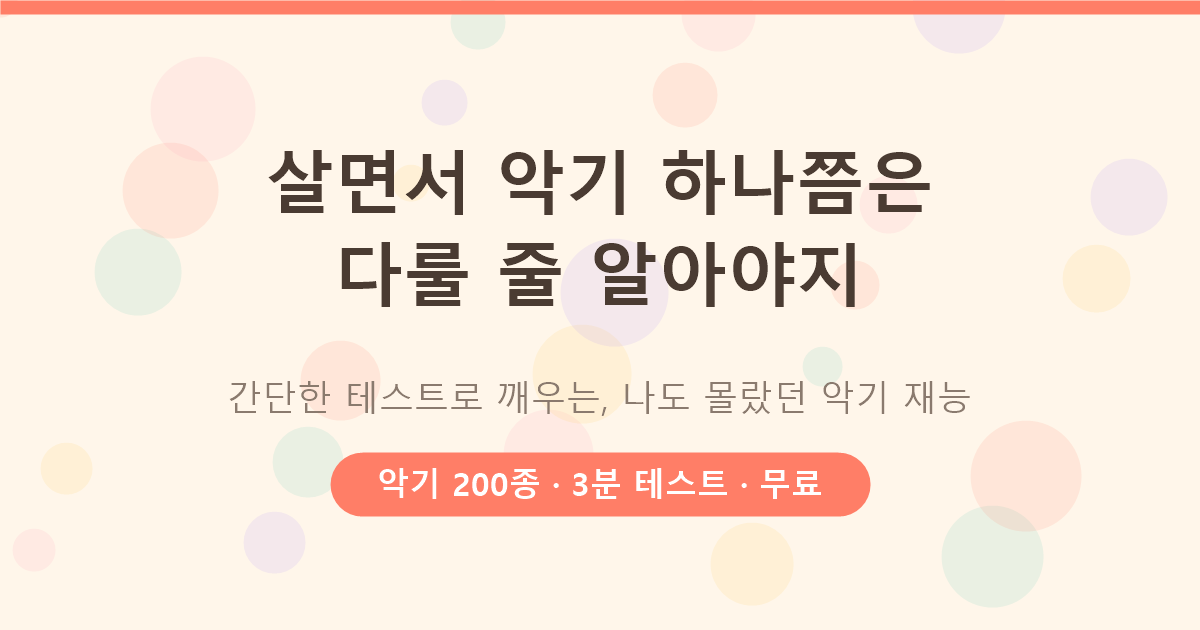
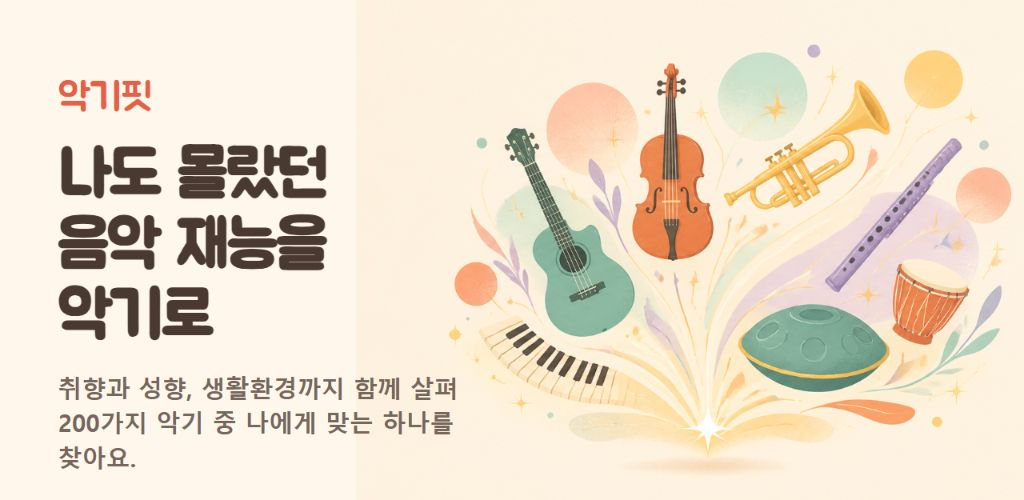
Improve app store and web discoverability

diff --git a/public/index.html b/public/index.html
@@ -3,20 +3,54 @@
 <head>
 <meta charset="utf-8">
 <meta name="viewport" content="width=device-width, initial-scale=1, viewport-fit=cover">
-<title>살면서 악기 하나쯤은 다룰 줄 알아야지</title>
-<meta name="description" content="간단한 테스트로 깨우는, 나도 몰랐던 악기 재능. 200종의 악기가 기다리고 있습니다.">
+<title>악기핏: 나에게 맞는 악기 찾기 | 악기 추천 테스트</title>
+<meta name="description" content="취향·성향·생활환경과 청음·리듬 감각을 함께 살펴 200가지 악기 중 나에게 맞는 악기를 추천합니다. 회원가입 없이 약 5분.">
 <meta name="theme-color" content="#FFF6EA">
+<meta name="robots" content="index,follow,max-image-preview:large">
+<meta name="application-name" content="악기핏">
 <meta name="naver-site-verification" content="458f86eeed3be6cb0b07b1d89e2c0a75818d3ec9">
 <link rel="canonical" href="https://instrumentquiz.org/">
-<meta property="og:title" content="살면서 악기 하나쯤은 다룰 줄 알아야지">
-<meta property="og:description" content="간단한 테스트로 깨우는 나도 몰랐던 악기 재능 (악기 200종)">
+<link rel="icon" type="image/png" sizes="512x512" href="/icon-512.png">
+<link rel="apple-touch-icon" href="/icon-512.png">
+<link rel="manifest" href="/site.webmanifest">
+<meta property="og:site_name" content="악기핏">
+<meta property="og:title" content="악기핏: 나에게 맞는 악기 찾기">
+<meta property="og:description" content="취향과 성향, 생활환경, 청음·리듬 감각을 함께 살펴 200가지 악기 중 나에게 맞는 하나를 추천해요.">
 <meta property="og:type" content="website">
 <meta property="og:url" content="https://instrumentquiz.org/">
 <meta property="og:image" content="https://instrumentquiz.org/og.png">
-<meta property="og:image:width" content="1200">
-<meta property="og:image:height" content="630">
+<meta property="og:image:width" content="1024">
+<meta property="og:image:height" content="500">
 <meta name="twitter:card" content="summary_large_image">
+<meta name="twitter:title" content="악기핏: 나에게 맞는 악기 찾기">
+<meta name="twitter:description" content="취향과 성향, 생활환경, 청음·리듬 감각을 함께 살펴 200가지 악기 중 나에게 맞는 하나를 추천해요.">
 <meta name="twitter:image" content="https://instrumentquiz.org/og.png">
+<script type="application/ld+json">
+{
+  "@context": "https://schema.org",
+  "@type": ["SoftwareApplication", "WebApplication"],
+  "name": "악기핏: 나에게 맞는 악기 찾기",
+  "alternateName": ["Instrument Fit", "Instrument Quiz", "乐器Fit"],
+  "url": "https://instrumentquiz.org/",
+  "description": "취향·성향·생활환경과 청음·리듬 감각을 함께 살펴 200가지 악기 중 나에게 맞는 악기를 추천하는 무료 테스트",
+  "applicationCategory": "MultimediaApplication",
+  "operatingSystem": "Web browser",
+  "isAccessibleForFree": true,
+  "inLanguage": ["ko", "en", "zh-CN"],
+  "image": "https://instrumentquiz.org/og.png",
+  "offers": {
+    "@type": "Offer",
+    "price": "0",
+    "priceCurrency": "KRW"
+  },
+  "featureList": [
+    "200가지 악기 추천",
+    "청음과 리듬 감각 테스트",
+    "생활환경과 예산 조건 반영",
+    "악기별 입문 가이드"
+  ]
+}
+</script>
 <style>
 @font-face{font-family:'Jua';font-display:swap;src:url('/fonts/Jua-Regular.ttf') format('truetype')}
 :root{
@@ -178,9 +212,9 @@ footer nav{display:flex;justify-content:center;gap:10px;flex-wrap:wrap}
 
   <!-- 검색엔진용 소개 (앱 하단 상시 노출 · JS 없이도 읽히는 본문) -->
   <section id="about" style="margin-top:56px; padding-top:28px; border-top:1px solid rgba(125,125,125,.18); color:var(--sub); font-size:.86rem; line-height:1.85">
-    <h2 style="font-size:1rem; margin:0 0 10px">「살면서 악기 하나쯤은 다룰 줄 알아야지」는 어떤 테스트인가요?</h2>
+    <h2 style="font-size:1rem; margin:0 0 10px">악기핏은 어떤 악기 추천 테스트인가요?</h2>
     <p style="margin:0 0 12px">
-      나에게 맞는 악기를 찾아 주는 무료 악기 추천 테스트입니다. 침이 고이는 관악기가 부담스러운지,
+      <strong>악기핏</strong>은 나에게 맞는 악기를 찾아 주는 무료 악기 추천 테스트입니다. 침이 고이는 관악기가 부담스러운지,
       손끝 굳은살을 견딜 수 있는지, 아파트에서 연습해도 되는 소리 크기인지 — 현실 조건부터,
       좋아하는 음악 장르와 성향까지 30개 남짓한 질문으로 확인합니다.
     </p>
@@ -774,11 +808,11 @@ function setAbout(){
 }
 function setStaticTexts(){
   document.documentElement.lang = isEN() ? "en" : (isZH() ? "zh-CN" : "ko");
-  document.title = L("살면서 악기 하나쯤은 다룰 줄 알아야지","Everyone should be able to play one instrument","这辈子总得会一样乐器");
+  document.title = L("악기핏: 나에게 맞는 악기 찾기","Instrument Fit: Find the Right Instrument for You","乐器Fit：找到适合你的乐器");
   const md=document.querySelector('meta[name="description"]');
-  if(md) md.setAttribute("content", L("간단한 테스트로 깨우는, 나도 몰랐던 악기 재능. 200종의 악기가 기다리고 있습니다.",
-    "A short test to uncover the musical talent you never knew you had. 200 instruments are waiting.",
-    "一个简单的测试,唤醒你自己都不知道的乐器天赋。200种乐器等着你。"));
+  if(md) md.setAttribute("content", L("취향·성향·생활환경과 청음·리듬 감각을 함께 살펴 200가지 악기 중 나에게 맞는 악기를 추천합니다. 회원가입 없이 약 5분.",
+    "Match your taste, personality, real-life needs, ear and rhythm against 200 instruments. No sign-up, about five minutes.",
+    "结合喜好、性格、生活条件以及听音和节奏感，从200种乐器中找到适合你的那一种。无需注册，约5分钟。"));
   const ko=document.getElementById("lang-ko"), en=document.getElementById("lang-en"), zh=document.getElementById("lang-zh");
   if(ko) ko.className = "langbtn"+(LANG==="ko"?" on":"");
   if(en) en.className = "langbtn"+(isEN()?" on":"");

diff --git a/src/index.js b/src/index.js
@@ -29,16 +29,16 @@ const OG_LOCALE = { ko: "ko_KR", en: "en_US", zh: "zh_CN" };
 /* 홈 화면 메타 — 앱이 실제로 렌더하는 문구와 맞춰 둔다(선언과 내용이 다르면 색인이 흔들린다) */
 const HOME = {
   ko: {
-    title: "살면서 악기 하나쯤은 다룰 줄 알아야지",
-    desc: "간단한 테스트로 깨우는, 나도 몰랐던 악기 재능. 귀 테스트와 취향 문답으로 악기 200종 중에서 나에게 맞는 악기를 찾아드려요.",
+    title: "악기핏: 나에게 맞는 악기 찾기 | 악기 추천 테스트",
+    desc: "취향·성향·생활환경과 청음·리듬 감각을 함께 살펴 200가지 악기 중 나에게 맞는 악기를 추천합니다. 회원가입 없이 약 5분.",
   },
   en: {
-    title: "Everyone should be able to play one instrument",
-    desc: "A short test to wake up the musical talent you never knew you had. An ear test plus a few questions about you, matched against 200 instruments.",
+    title: "Instrument Fit: Find the Right Instrument for You",
+    desc: "Match your taste, personality, real-life needs, ear and rhythm against 200 instruments. No sign-up, about five minutes.",
   },
   zh: {
-    title: "这辈子总得会一样乐器",
-    desc: "一个简单的测试，唤醒连你自己都不知道的乐器天赋。用听力测试和口味问答，从200种乐器里帮你找出最适合你的那一样。",
+    title: "乐器Fit：找到适合你的乐器",
+    desc: "结合喜好、性格、生活条件以及听音和节奏感，从200种乐器中找到适合你的那一种。无需注册，约5分钟。",
   },
 };
 
@@ -69,6 +69,8 @@ function localize(html, { lang, path, title, desc, image }) {
   set("property", "og:title", title);
   set("property", "og:description", desc);
   set("property", "og:url", canonical);
+  set("name", "twitter:title", title);
+  set("name", "twitter:description", desc);
   if (image) {
     set("property", "og:image", image);
     set("name", "twitter:image", image);
@@ -126,10 +128,10 @@ export default {
           : `나에게 맞는 악기는 ${name}!`;
         const desc =
           rl === "en"
-            ? "Everyone should be able to play one instrument — here's what a 3-minute test picked for me. What would yours be?"
+            ? "Instrument Fit matched me with this instrument after a short test. What would yours be?"
             : rl === "zh"
-            ? "这辈子总得会一样乐器 — 3分钟测试给我的结果。你的会是什么呢?"
-            : "살면서 악기 하나쯤은 다룰 줄 알아야지 — 3분 테스트로 나온 결과예요. 당신의 악기는 뭘까요?";
+            ? "乐器Fit用一个简短测试为我找到了这件乐器。你的会是什么呢？"
+            : "악기핏의 짧은 테스트로 나온 결과예요. 당신에게 맞는 악기는 무엇일까요?";
         html = localize(html, {
           lang: rl,
           path: `/r/${m[1]}`,

diff --git a/public/support.html b/public/support.html
@@ -4,8 +4,8 @@
 <meta charset="utf-8">
 <meta name="viewport" content="width=device-width, initial-scale=1, viewport-fit=cover">
 <meta name="theme-color" content="#FFF6EA">
-<title>지원 · Support · 帮助 | Instrument Quiz</title>
-<meta name="description" content="Instrument Quiz 사용 방법과 지원 문의">
+<title>악기핏 지원 · Support · 帮助</title>
+<meta name="description" content="악기핏 사용 방법, 소리 문제 해결 및 지원 문의">
 <style>
 :root{--bg:#FFF6EA;--card:#fff;--ink:#4A3B32;--sub:#76665B;--accent:#A43828;--line:rgba(74,59,50,.18)}
 *{box-sizing:border-box}
@@ -23,7 +23,7 @@ p,ol,ul{margin:8px 0}ol,ul{padding-left:22px}.meta{color:var(--sub)}a{color:var(
 <div class="wrap">
   <header>
     <h1>지원<br><span lang="en">Support</span><br><span lang="zh-CN">帮助</span></h1>
-    <p class="meta">Instrument Quiz</p>
+    <p class="meta">악기핏 · Instrument Quiz</p>
     <nav class="links" aria-label="페이지 링크">
       <a href="/">앱으로 돌아가기 / Back to the app / 返回应用</a>
       <a href="/privacy.html">개인정보처리방침 / Privacy / 隐私</a>
@@ -34,7 +34,7 @@ p,ol,ul{margin:8px 0}ol,ul{padding-left:22px}.meta{color:var(--sub)}a{color:var(
   <main>
     <section class="card" aria-labelledby="support-ko">
       <h2 id="support-ko">한국어</h2>
-      <p><strong>Instrument Quiz</strong>는 약 30개의 질문과 간단한 귀·리듬 테스트로 200종의 악기 중 나에게 맞는 악기를 찾아 주는 무료 앱입니다. 회원가입이나 계정은 필요하지 않습니다.</p>
+      <p><strong>악기핏</strong>은 약 30개의 질문과 간단한 귀·리듬 테스트로 200종의 악기 중 나에게 맞는 악기를 찾아 주는 무료 앱입니다. 회원가입이나 계정은 필요하지 않습니다.</p>
       <h3>테스트 시작 방법</h3>
       <ol>
         <li>앱 첫 화면에서 <strong>내 악기 찾으러 가기</strong>를 누릅니다.</li>

diff --git a/public/privacy.html b/public/privacy.html
@@ -4,8 +4,8 @@
 <meta charset="utf-8">
 <meta name="viewport" content="width=device-width, initial-scale=1, viewport-fit=cover">
 <meta name="theme-color" content="#FFF6EA">
-<title>개인정보처리방침 · Privacy Policy · 隐私政策 | Instrument Quiz</title>
-<meta name="description" content="Instrument Quiz 개인정보처리방침과 Privacy Policy">
+<title>악기핏 개인정보처리방침 · Privacy Policy · 隐私政策</title>
+<meta name="description" content="악기핏 개인정보처리방침과 Privacy Policy">
 <style>
 :root{--bg:#FFF6EA;--card:#fff;--ink:#4A3B32;--sub:#76665B;--accent:#A43828;--line:rgba(74,59,50,.18)}
 *{box-sizing:border-box}
@@ -23,7 +23,7 @@ p,ul{margin:8px 0}ul{padding-left:22px}.meta{color:var(--sub)}a{color:var(--acce
 <div class="wrap">
   <header>
     <h1>개인정보처리방침<br><span lang="en">Privacy Policy</span><br><span lang="zh-CN">隐私政策</span></h1>
-    <p class="meta">Instrument Quiz · 운영자 / Operator / 运营者: 전호상<br>시행일 / Effective date / 生效日期: 2026-08-14</p>
+    <p class="meta">악기핏 · Instrument Quiz · 운영자 / Operator / 运营者: 전호상<br>시행일 / Effective date / 生效日期: 2026-08-14</p>
     <nav class="links" aria-label="페이지 링크">
       <a href="/">앱으로 돌아가기 / Back to the app / 返回应用</a>
       <a href="/support.html">지원 / Support / 帮助</a>
@@ -34,7 +34,7 @@ p,ul{margin:8px 0}ul{padding-left:22px}.meta{color:var(--sub)}a{color:var(--acce
   <main>
     <section class="card" aria-labelledby="privacy-ko">
       <h2 id="privacy-ko">한국어</h2>
-      <p><strong>Instrument Quiz</strong>는 전호상이 운영하는 무료 악기 추천 앱입니다.</p>
+      <p><strong>악기핏</strong>은 전호상이 운영하는 무료 악기 추천 앱입니다.</p>
       <h3>수집 및 처리하는 정보</h3>
       <ul>
         <li>계정 기능, 광고, 분석 SDK가 없습니다.</li>

diff --git a/store-assets/store-listing-ko.md b/store-assets/store-listing-ko.md
@@ -1,0 +1,65 @@
+# 악기핏 한국어 스토어 등록 문구
+
+## 공통 기본값
+
+- 앱 이름: `악기핏: 나에게 맞는 악기 찾기`
+- 개발자명: `전호상`
+- 연락처: `fiddle@kakao.com`
+- 지원 URL: `https://instrumentquiz.org/support.html`
+- 개인정보처리방침 URL: `https://instrumentquiz.org/privacy.html`
+- 마케팅 URL: `https://instrumentquiz.org/`
+
+## Google Play
+
+- 앱 이름(30자 이하): `악기핏: 나에게 맞는 악기 찾기`
+- 카테고리: `음악/오디오 (Music & Audio)`
+- 짧은 설명(80자 이하):
+
+  `취향·성향·생활환경과 청음·리듬 감각으로 200가지 악기 중 나에게 맞는 악기를 추천해요.`
+
+- 자세한 설명:
+
+  나에게 맞는 악기는 무엇일까요?
+
+  악기핏은 취향과 성향, 생활환경에 간단한 청음·리듬 테스트까지 더해 200가지 악기 중 나와 잘 맞는 악기를 추천하는 무료 앱입니다.
+
+  피아노, 기타, 바이올린, 드럼처럼 익숙한 악기부터 칼림바, 핸드팬, 해금, 비올라 다 감바 같은 낯선 악기까지 폭넓게 비교합니다. 단순한 취향만 묻지 않고 연습 공간, 소음, 예산, 손 크기와 통증, 레슨 환경처럼 실제로 악기를 시작할 때 중요한 조건도 함께 살펴봅니다.
+
+  주요 기능
+
+  • 약 30개의 취향·성향·생활환경 질문
+  • 음 높낮이, 미세 음정, 멜로디 기억을 살펴보는 청음 테스트
+  • 메트로놈을 듣고 따라 치는 리듬 감각 테스트
+  • 200가지 악기 중 조건과 적성을 함께 계산한 추천 결과
+  • 추천 이유, 주의점, 예상 입문 비용과 첫 연습 목표
+  • 악기별 입문 가이드와 대표 연주 영상 검색
+  • 친구에게 결과를 보여 줄 수 있는 공유 링크
+
+  회원가입이나 계정 생성 없이 바로 시작할 수 있으며, 설문 답변과 점수는 사용자의 기기 안에서 계산됩니다. 청음 테스트를 건너뛰어도 추천 결과를 받을 수 있습니다.
+
+  새로운 취미를 찾고 있거나, 악기 하나를 배우고 싶지만 무엇부터 시작할지 고민이라면 악기핏으로 나도 몰랐던 가능성을 확인해 보세요.
+
+  추천 결과는 취미 선택을 돕기 위한 참고 정보이며 전문적인 능력 진단을 대신하지 않습니다.
+
+## Apple App Store
+
+- 이름(30자 이하): `악기핏: 나에게 맞는 악기 찾기`
+- 부제(30자 이하): `나도 몰랐던 음악 재능을 악기로`
+- 기본 카테고리: `음악 (Music)`
+- 보조 카테고리: `라이프스타일 (Lifestyle)`
+- 키워드(100바이트 이하, 이름·부제와 중복 제외):
+
+  `적성테스트,취미추천,청음,리듬감,절대음감,성향검사,입문,심리테스트`
+
+- 프로모션 문구(170자 이하, 검색 순위에는 사용되지 않음):
+
+  `취향과 성향, 생활환경에 청음·리듬 테스트까지. 200가지 악기 중 나도 몰랐던 가능성과 가장 잘 맞는 악기를 찾아보세요.`
+
+- 설명: Google Play의 자세한 설명을 동일하게 사용하되, 글머리표는 App Store Connect의 일반 텍스트 형식으로 입력합니다.
+
+## 출시 후 검색 노출 점검
+
+1. Google Play Console의 사용자 획득 보고서에서 `Google Play 검색` 유입과 설치 전환율을 확인합니다.
+2. App Store Connect의 App Store 검색 유입, 제품 페이지 조회수, 전환율을 확인합니다.
+3. 노출은 많은데 설치가 적으면 첫 3장 스크린샷의 문구와 순서를 먼저 조정합니다.
+4. 검색 노출 자체가 적으면 실제 검색어 데이터를 보고 이름·부제·키워드를 다음 버전에서 조정합니다.
